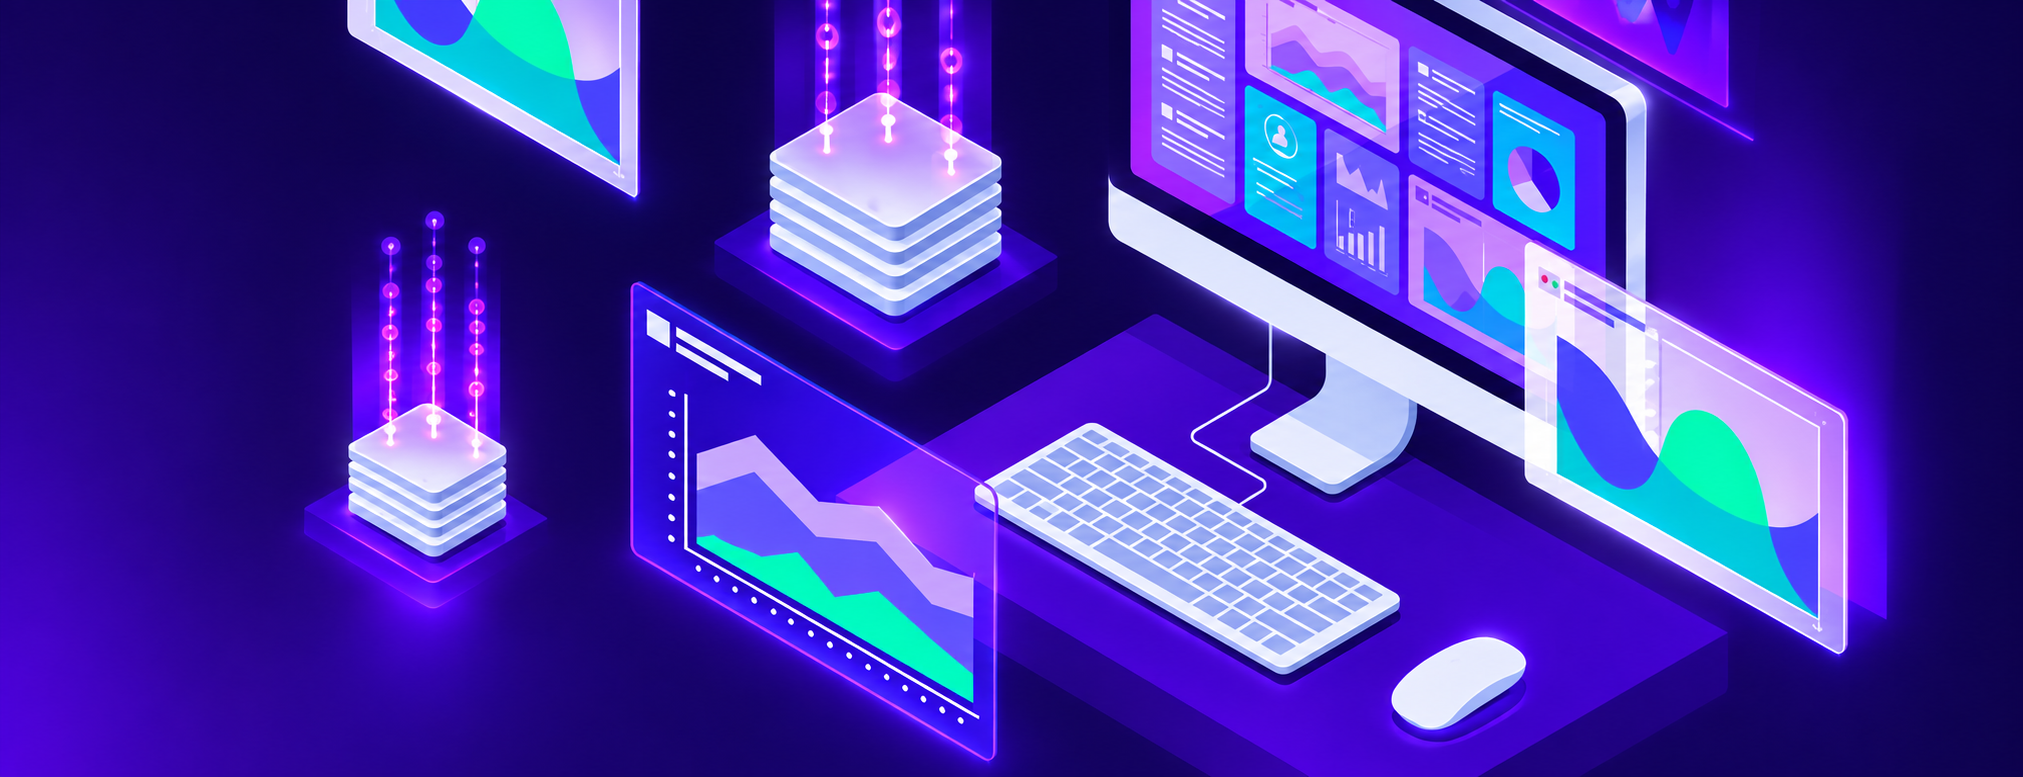
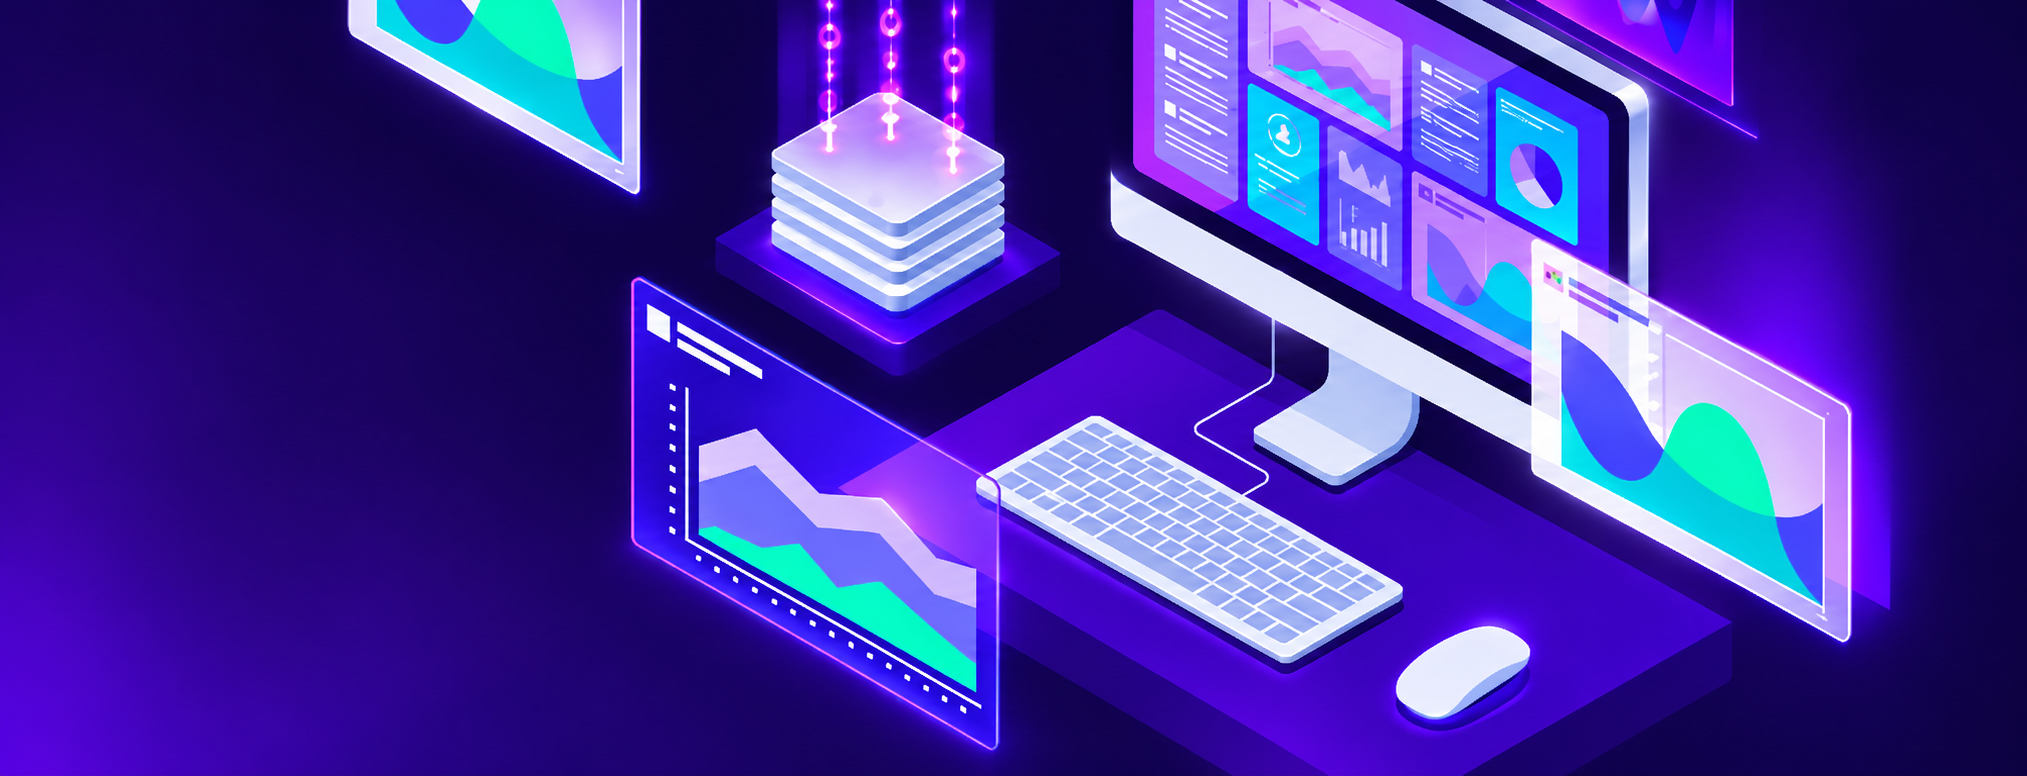
java

diff --git a/index.html b/index.html
@@ -4,6 +4,7 @@
     <meta charset="UTF-8">
     <meta name="viewport" content="width=device-width, initial-scale=1.0">
     <link rel="stylesheet" href="./css/estilo.css">
+    
     <title>Star Level</title>
     </head>
 
@@ -34,13 +35,11 @@
 
          <div class="txt">
              <p>
-                Lorem ipsum, dolor sit amet consectetur adipisicing elit. 
-                Facere, itaque minima. Aperiam repellendus, rerum eveniet 
-                inventore animi, ex iste rem aspernatur omnis optio autem, similique modi sit! Rerum, dolorum perferendis.
-                Lorem ipsum, dolor sit amet consectetur adipisicing elit. 
-                Facere, itaque minima. Aperiam repellendus, rerum eveniet 
-                inventore animi, ex iste rem aspernatur omnis optio autem, similique modi sit! Rerum, dolorum perferendis.
-             </p>  
+                A empresa foi idealizada com foco no ambiente digital, acompanhando as transformações do mercado e a necessidade de conexões rápidas,
+                interativas e acessíveis. Ao mesmo tempo, mantém uma base estrutural física voltada ao desenvolvimento de projetos, promovendo organização,
+                colaboração entre equipes e inovação.Desde sua criação, a StarLevel busca se destacar não apenas pelos serviços oferecidos,
+                mas também pela sua visão de futuro, sempre mirando níveis mais altos de qualidade e impacto.
+             </p> 
               
          </div>
   
@@ -79,6 +78,7 @@
         <h1>Serviços Oferecidos pela Star Level</h1>
             
         <div class="cards">
+
             <div class="card">
                 
                     <img src="img/laptop.png"  class="icone">
@@ -173,6 +173,10 @@
                      <span></span>
                     <span></span>
             </div>
+
+            <!--Aqui vai adicionar divs para a criação do carrossel-->
+
+
         </div>
 
 
@@ -229,34 +233,28 @@
         
 
         <div class="missao">
+
             <img src="./img/missao.png">
             <h1>Missão</h1>
                 <p>
-                    Lorem ipsum dolor sit amet, consectetur
-                    adipiscing elit. Suspendisse semper, mauris
-                    sit amet consectetur adipiscing elit.
-                    Lorem ipsum dolor sit amet, consectetur
-                    adipiscing elit. Suspendisse semper
-                   adipiscing elit.
-                    Lorem ipsum dolor sit amet, consectetur
-                    adipiscing elit. Suspendisse semper
+                    Promover a inovação tecnológica de forma acessível,
+                    aplicando-a em diversas áreas e produtos,
+                    buscando proporcionar experiências interativas e aproximar o
+                    cliente das soluções oferecidas, criando conexões marcantes por
+                    meio da tecnologia e da gamificação.
                     
                 </p>
         </div>
 
 
         <div class="visao">
+
             <img src="./img/olho.png">
             <h1>Visão</h1>
                 <p>
-                    Lorem ipsum dolor sit amet, consectetur
-                    adipiscing elit. Suspendisse semper, mauris
-                    sit amet consectetur adipiscing elit.
-                    Lorem ipsum dolor sit amet, consectetur
-                    adipiscing elit. Suspendisse semper
-                    adipiscing elit.
-                    Lorem ipsum dolor sit amet, consectetur
-                    adipiscing elit. Suspendisse semper
+                    Consolidar a empresa nos mercados nacional e
+                    internacional, ampliando sua atuação em diversos
+                    ramos e setores.
                    
                 </p>
         </div>
@@ -266,14 +264,10 @@
             <img src="./img/diamante.png">
             <h1>Valores</h1>
                 <p>
-                    Lorem ipsum dolor sit amet, consectetur
-                    adipiscing elit. Suspendisse semper, mauris
-                    sit amet consectetur adipiscing elit.
-                    Lorem ipsum dolor sit amet, consectetur
-                    adipiscing elit. Suspendisse semper
-                    adipiscing elit.
-                    Lorem ipsum dolor sit amet, consectetur
-                    adipiscing elit. Suspendisse semper
+                    Prezar pela humanização, pela harmonia e pelo respeito
+                    mútuo entre os integrantes da equipe, bem como pelo compromisso
+                    com a constante inovação tecnológica e com a máxima dedicação nos
+                    serviços prestados aos clientes.
                     
                     
                 </p>
@@ -368,11 +362,11 @@
 
     </section>
 
+<script src="scripts.js"></script>
+
     </body>  
 
 <footer>
-
-
         
     <div class="footer-infos">
 
@@ -429,7 +423,6 @@
 
 
  </footer>
-
 
 
 

diff --git a/css/estilo.css b/css/estilo.css
@@ -1,17 +1,24 @@
 *{
   margin:0; /*zerando as margems*/
   padding:0; /*zerando o espaço entre a margem e o elemento*/
-  
+ 
  }
 
+ @media (max-width: 768px) {
+    .body {
+        flex-direction: column;
+        align-items: center;
+        width: 90%;
+        padding: 20px;
+    }
 
- 
+}
 
  body {
     
     background-color: #030303;
     font-family: Arial, sans-serif;
-    box-sizing: border-box;
+    
     
  }
 
@@ -27,6 +34,11 @@
     width: 100%;
     top: 0%;
     left: 0%;
+ }
+
+ header.show {
+    position: inherit;
+    transform: translateY(-20px);
  }
 
  .logo-container{
@@ -72,8 +84,8 @@
 
     width: 100%;
     height: 820px;
-     background-image: linear-gradient(to bottom, rgba(0, 0, 0, 90), transparent), 
-     url("../img/Home.png");
+     background-image: linear-gradient(to bottom, rgba(0, 0, 0, 1.0), transparent), 
+     url("../img/home.png");
      background-repeat: no-repeat;
      background-size: cover;
      padding-bottom: 10px;
@@ -90,7 +102,9 @@
     
 }
 
-.txt {
+
+.txt{
+
     margin-top: 200px;
     color: #f8f8f8;
     align-items: center;
@@ -99,6 +113,7 @@
         0 0 5px #ffffff,
         0 0 10px #8b2cff,
         0 0 20px #6a00ff;
+     
 }
 
 
@@ -217,14 +232,24 @@
 
 
 .desenvolvedores{
-    margin-bottom: 180px;
+    margin-bottom: 300px;
      height: 750px;
      width: 100%;
      display: flex;
      background-image: url("../img/fundo-devs.png");
      backdrop-filter: initial;
      background-repeat: no-repeat;
-     background-size: cover;     
+     background-size: cover; 
+
+     opacity: 0;
+     transform: translateY(50px);
+     transition: 6s ease;    
+}
+
+.desenvolvedores.show {
+    opacity: 1;
+    transform: translateY(0);
+
 }
 
 .lado-esquerdo {
@@ -375,28 +400,44 @@
 
 
 
+
+
+
+
+
+
+
+
+
+
 .mvv {
     height: 670px;
      width: 100%;
      display: flex;
-     background-image: url("../img/teste2.png");
+     background-image: url("../img/teste.png");
      backdrop-filter: initial;
      background-repeat: no-repeat;
      background-size: cover;
+  
+
+     opacity: 0;
+     transform: translateY(00px);
+     transition: 6s ease;    
 }
 
-.mvv img{
- width: 150px;
- height: 150px;
- padding-top: 40px;
- padding-left: 250px;
+.mvv.show {
+    opacity: 1;
+    transform: translateY(0);
+
 }
+
+
 
 .mvv h1{
     color: white;
-    padding-left: 180px;
     font-size: 80px;
-    padding-top: 30px;
+    margin-top: 30px;
+    
 
      background: linear-gradient(
         #ffffff 40%,
@@ -414,37 +455,73 @@
 
 .visao p{
     color: white;
-    padding-right: 40px;
-    padding-left: 110px;
-    padding-top: 50px ;
-    font-size: 20px;
+    margin-right: -40px;
+    margin-left: -160px;
+    margin-top: 50px ;
+    font-size: 26px;
+    
 }
+
+.visao img{
+ width: 150px;
+ height: 150px;
+ padding-top: 40px;
+ margin-left: 40px;
+}
+
+.visao h1 {
+    margin-right: 120px;
+    margin-left: 10px;
+}
+
 
 .valores p{
     color: white;
     padding-right: 30px;
     padding-left: 130px;
     padding-top: 50px ;
-    font-size: 20px;
+    font-size: 26px;
+}
+
+.valores img{
+ width: 150px;
+ height: 150px;
+ margin-top: 40px;
+ margin-left: 340px;
+}
+
+.valores h1 {
+    margin-left: 280px;
 }
 
 .missao p{
-    color: white;
-    padding-right: 80px;
-    padding-left: 100px;
-    padding-top: 50px ;
-    font-size: 20px;
-}
-
-.visao h1 {
-    padding-left: 220px;
+    color: rgb(245, 243, 243);
+    margin-right: 300px;
+    margin-left: 40px;
+    margin-top: 50px ;
+    font-size: 26px;
 }
 
 .missao img{
-    width: 130px;
-    height: 130px;
-    margin-top: 24px;
+ width: 150px;
+ height: 150px;
+ margin-top: 40px;
+ margin-left: 240px;
 }
+
+.missao h1 {
+    margin-left: 180px;
+}
+
+
+
+
+
+
+
+
+
+
 
 
 .portifolio {

diff --git a/scripts.js b/scripts.js
@@ -1,0 +1,22 @@
+
+const elements = document.querySelectorAll('.desenvolvedores, .mvv')
+
+const myObserver = new IntersectionObserver((entries) => {
+
+    entries.forEach((entry) => {
+
+        if (entry.isIntersecting) {
+            entry.target.classList.add('show')
+        }
+        else {
+            entry.target.classList.remove('show')
+        }
+
+    })
+
+})
+
+    elements.forEach((element) => {
+    myObserver.observe(element)
+})
+
